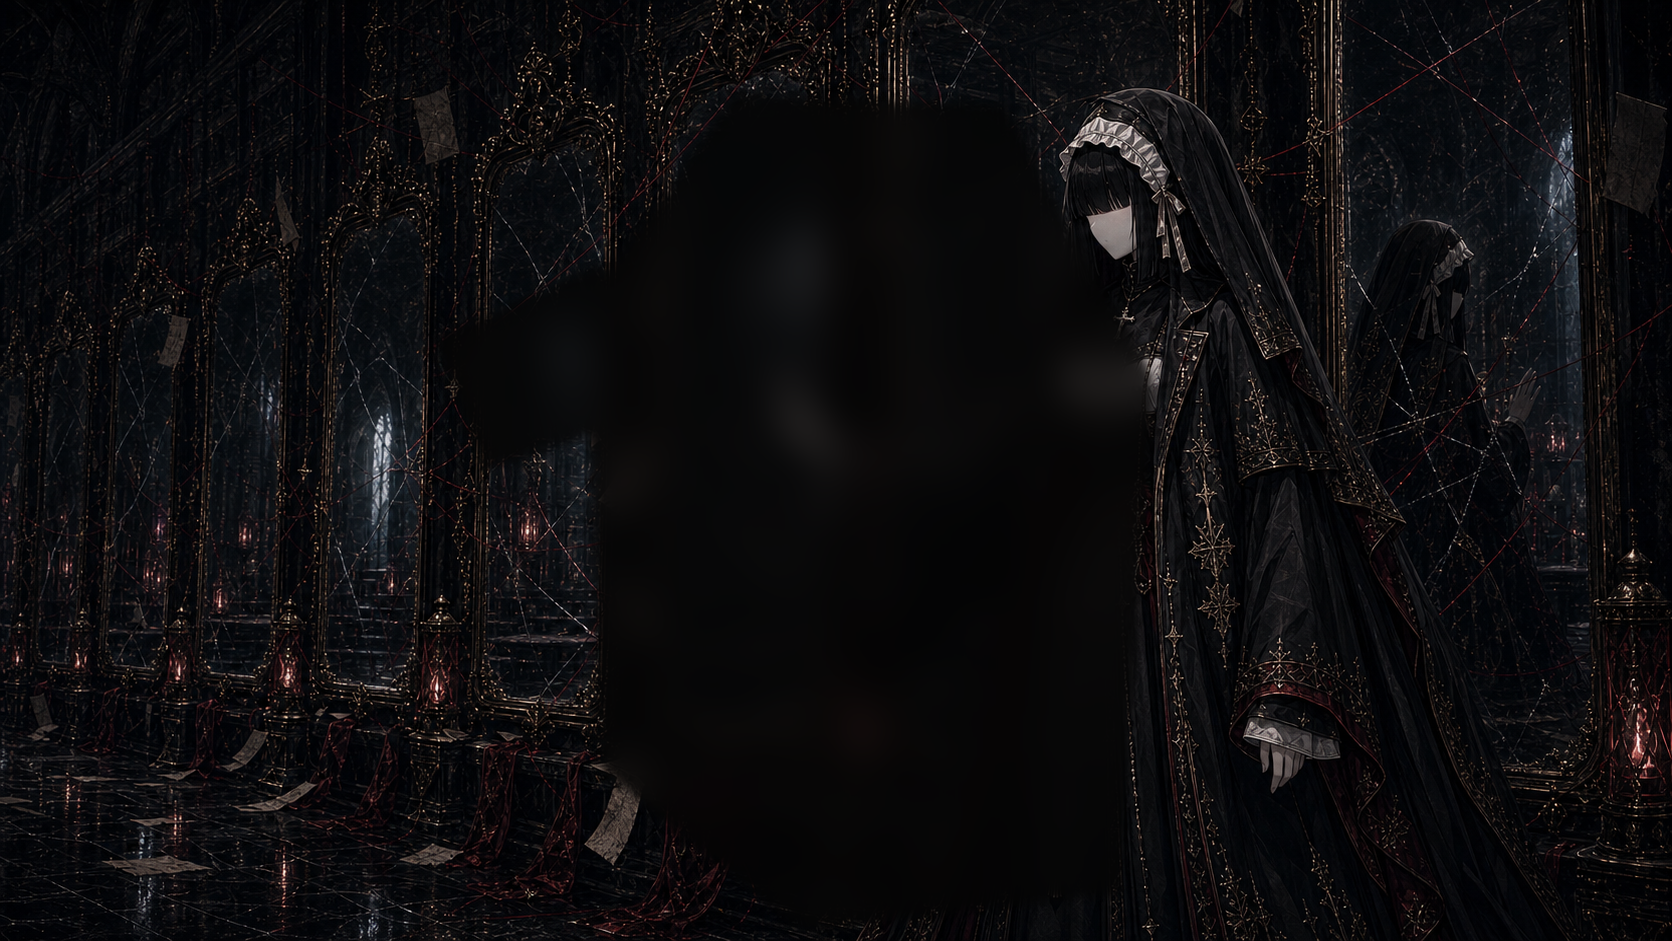
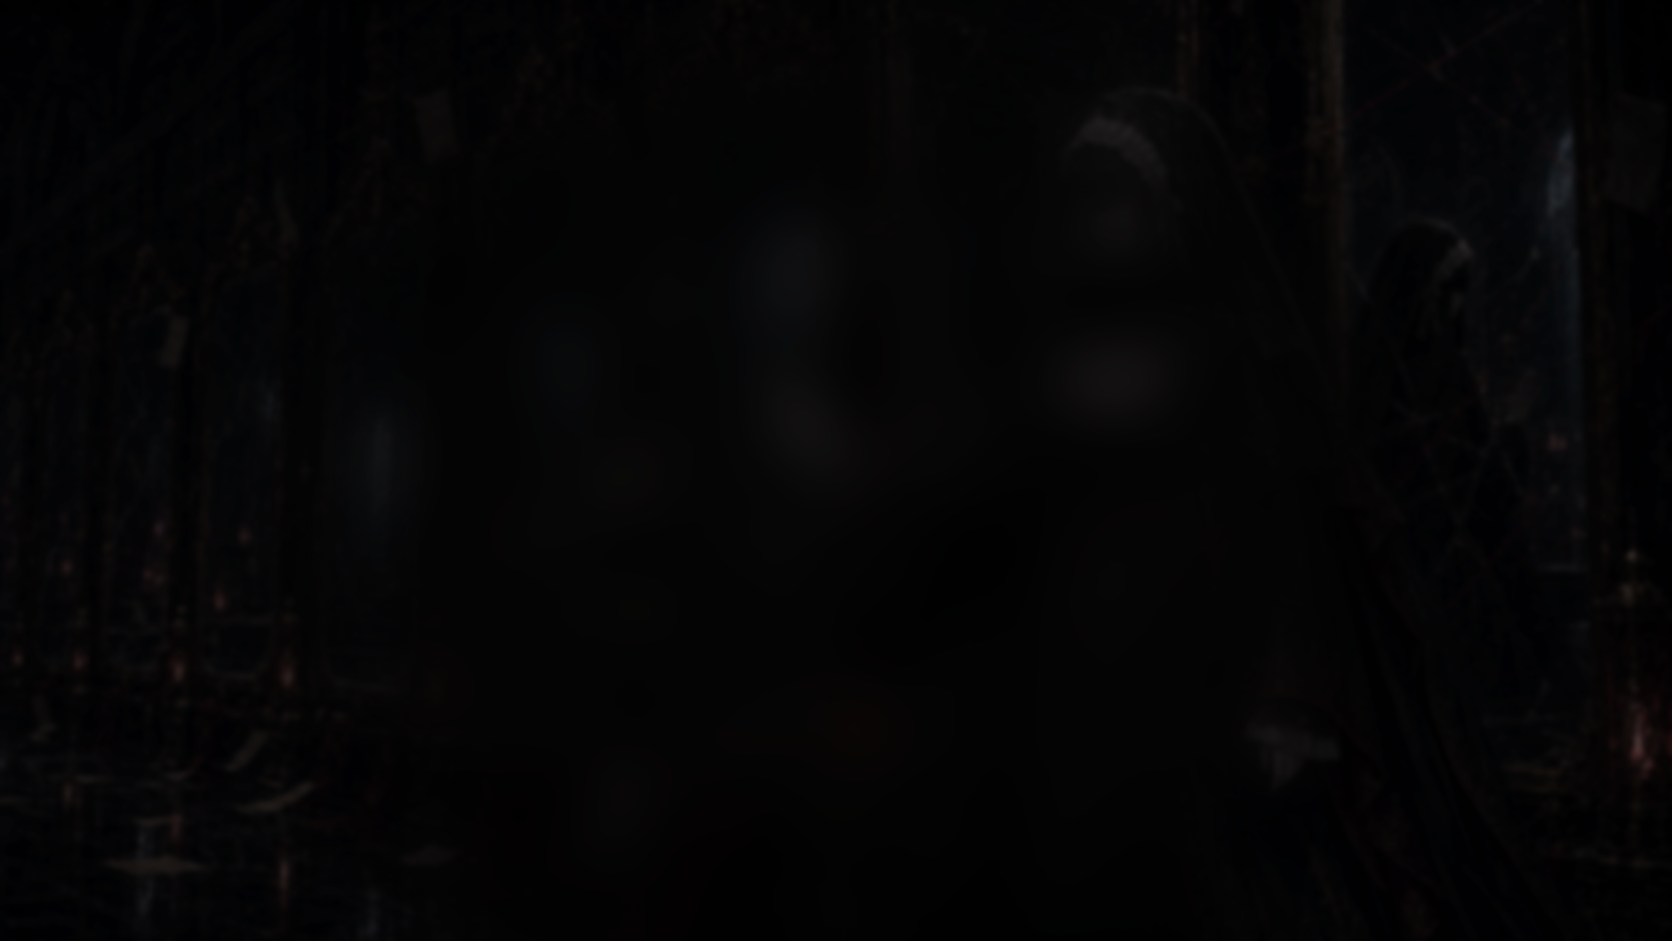
Regenerate Sanctum figure layers

diff --git a/sanctum/index.html b/sanctum/index.html
@@ -361,21 +361,21 @@
     let knitEdges = [];
     let knitDegrees = [];
     const personMasks = [
-      [[[0.42,0.08],[0.57,0.08],[0.64,0.36],[0.67,0.9],[0.54,0.96],[0.45,0.96],[0.32,0.9],[0.35,0.36]]],
-      [[[0.39,0.1],[0.55,0.08],[0.72,0.36],[0.72,0.95],[0.55,0.98],[0.42,0.94],[0.31,0.55]]],
-      [[[0.36,0.02],[0.61,0.05],[0.68,0.35],[0.66,0.67],[0.5,0.82],[0.28,0.95],[0.16,0.82],[0.19,0.48]]],
-      [[[0.39,0.08],[0.58,0.08],[0.68,0.33],[0.74,0.72],[0.62,0.94],[0.38,0.94],[0.24,0.72],[0.31,0.33]]],
-      [[[0.42,0.08],[0.6,0.08],[0.66,0.32],[0.68,0.68],[0.55,0.86],[0.38,0.8],[0.32,0.55],[0.34,0.25]]],
-      [[[0.44,0.15],[0.56,0.15],[0.69,0.45],[0.76,0.9],[0.54,0.98],[0.36,0.94],[0.24,0.64],[0.32,0.36]]],
-      [[[0.36,0.1],[0.52,0.12],[0.63,0.38],[0.62,0.93],[0.42,0.98],[0.27,0.88],[0.24,0.42]]],
-      [[[0.4,0.06],[0.56,0.08],[0.65,0.36],[0.66,0.92],[0.47,0.98],[0.31,0.88],[0.33,0.3]],[[0.26,0.34],[0.34,0.27],[0.37,0.43],[0.28,0.48]]],
-      [[[0.34,0.22],[0.63,0.22],[0.78,0.56],[0.69,0.9],[0.51,0.98],[0.31,0.9],[0.2,0.58]]],
-      [[[0.06,0.07],[0.35,0.08],[0.42,0.38],[0.4,0.83],[0.25,0.96],[0.08,0.88],[0.02,0.45]]],
-      [[[0.43,0.16],[0.57,0.16],[0.7,0.42],[0.76,0.9],[0.56,0.98],[0.42,0.93],[0.28,0.58],[0.36,0.34]]],
-      [[[0.38,0.1],[0.58,0.1],[0.68,0.38],[0.65,0.94],[0.45,0.98],[0.33,0.82],[0.33,0.35]]],
-      [[[0.12,0.08],[0.35,0.06],[0.44,0.34],[0.42,0.86],[0.26,0.98],[0.1,0.88],[0.04,0.48]]],
-      [[[0.44,0.1],[0.6,0.11],[0.69,0.4],[0.67,0.95],[0.48,0.99],[0.36,0.82],[0.35,0.32]],[[0.26,0.36],[0.36,0.28],[0.39,0.44],[0.29,0.5]]],
-      [[[0.42,0.1],[0.58,0.1],[0.73,0.42],[0.75,0.93],[0.55,0.98],[0.39,0.94],[0.25,0.48],[0.33,0.26]]]
+      [[[0.43,0.07],[0.57,0.07],[0.61,0.38],[0.58,0.88],[0.53,0.96],[0.46,0.96],[0.40,0.88],[0.38,0.38]],[[0.45,0.17],[0.55,0.17],[0.58,0.88],[0.42,0.88]],[[0.45,0.28],[0.55,0.28],[0.56,0.39],[0.44,0.39]]],
+      [[[0.42,0.09],[0.55,0.08],[0.64,0.35],[0.67,0.9],[0.54,0.97],[0.43,0.93],[0.34,0.56]],[[0.45,0.2],[0.55,0.2],[0.6,0.9],[0.42,0.9]],[[0.55,0.34],[0.68,0.42],[0.66,0.52],[0.55,0.45]]],
+      [[[0.36,0.04],[0.60,0.05],[0.65,0.32],[0.61,0.58],[0.48,0.74],[0.28,0.91],[0.18,0.78],[0.21,0.48]],[[0.43,0.22],[0.59,0.24],[0.62,0.57],[0.50,0.72],[0.36,0.60]],[[0.50,0.56],[0.66,0.56],[0.65,0.66],[0.50,0.68]]],
+      [[[0.39,0.09],[0.58,0.09],[0.66,0.34],[0.70,0.72],[0.61,0.93],[0.39,0.93],[0.29,0.72],[0.33,0.34]],[[0.43,0.18],[0.55,0.18],[0.60,0.88],[0.40,0.88]],[[0.25,0.34],[0.38,0.42],[0.35,0.57],[0.25,0.52]],[[0.60,0.42],[0.73,0.34],[0.72,0.52],[0.63,0.57]]],
+      [[[0.42,0.08],[0.59,0.08],[0.64,0.32],[0.62,0.62],[0.55,0.82],[0.40,0.77],[0.34,0.55],[0.35,0.26]],[[0.45,0.22],[0.58,0.22],[0.59,0.58],[0.45,0.58]],[[0.58,0.55],[0.66,0.56],[0.66,0.66],[0.55,0.66]]],
+      [[[0.45,0.16],[0.55,0.16],[0.67,0.45],[0.72,0.88],[0.54,0.97],[0.37,0.92],[0.28,0.64],[0.34,0.36]],[[0.46,0.24],[0.54,0.24],[0.58,0.82],[0.43,0.82]]],
+      [[[0.37,0.11],[0.52,0.12],[0.60,0.38],[0.58,0.9],[0.43,0.96],[0.30,0.86],[0.27,0.42]],[[0.39,0.21],[0.51,0.21],[0.53,0.84],[0.36,0.84]]],
+      [[[0.41,0.07],[0.56,0.08],[0.62,0.36],[0.62,0.9],[0.48,0.97],[0.34,0.86],[0.35,0.30]],[[0.26,0.34],[0.36,0.28],[0.38,0.44],[0.29,0.49]],[[0.43,0.20],[0.55,0.20],[0.57,0.84],[0.40,0.84]]],
+      [[[0.35,0.22],[0.62,0.22],[0.72,0.55],[0.66,0.86],[0.51,0.96],[0.33,0.88],[0.23,0.58]],[[0.41,0.30],[0.56,0.30],[0.60,0.76],[0.39,0.76]],[[0.34,0.72],[0.49,0.78],[0.45,0.91],[0.30,0.86]],[[0.52,0.78],[0.67,0.72],[0.70,0.86],[0.55,0.91]]],
+      [[[0.10,0.08],[0.34,0.08],[0.39,0.37],[0.36,0.80],[0.25,0.94],[0.10,0.86],[0.05,0.45]],[[0.18,0.20],[0.34,0.20],[0.35,0.72],[0.16,0.72]],[[0.30,0.34],[0.43,0.42],[0.41,0.55],[0.31,0.50]]],
+      [[[0.44,0.17],[0.56,0.17],[0.66,0.43],[0.71,0.88],[0.55,0.97],[0.43,0.92],[0.32,0.58],[0.38,0.34]],[[0.45,0.27],[0.55,0.27],[0.59,0.84],[0.41,0.84]],[[0.57,0.36],[0.70,0.26],[0.73,0.42],[0.61,0.48]]],
+      [[[0.39,0.11],[0.58,0.11],[0.65,0.38],[0.62,0.90],[0.46,0.97],[0.35,0.80],[0.35,0.36]],[[0.43,0.23],[0.56,0.23],[0.57,0.82],[0.39,0.82]],[[0.41,0.62],[0.60,0.62],[0.63,0.78],[0.38,0.78]]],
+      [[[0.13,0.08],[0.34,0.07],[0.40,0.34],[0.38,0.82],[0.26,0.96],[0.11,0.86],[0.06,0.48]],[[0.18,0.19],[0.34,0.19],[0.35,0.72],[0.16,0.72]],[[0.30,0.50],[0.42,0.58],[0.40,0.70],[0.28,0.62]]],
+      [[[0.45,0.11],[0.60,0.12],[0.65,0.40],[0.63,0.92],[0.49,0.98],[0.38,0.80],[0.37,0.32]],[[0.27,0.36],[0.37,0.28],[0.39,0.44],[0.30,0.50]],[[0.46,0.23],[0.58,0.23],[0.58,0.78],[0.42,0.78]]],
+      [[[0.43,0.11],[0.58,0.11],[0.69,0.42],[0.71,0.90],[0.55,0.97],[0.40,0.92],[0.29,0.49],[0.35,0.27]],[[0.46,0.22],[0.57,0.22],[0.60,0.84],[0.42,0.84]],[[0.34,0.43],[0.45,0.52],[0.42,0.68],[0.31,0.60]],[[0.58,0.52],[0.70,0.43],[0.73,0.60],[0.62,0.68]]]
     ];
 
     setTrack.innerHTML = layers.map((_, index) => `<button class="${index === 0 ? "is-active" : ""}" type="button" aria-label="Show set ${index + 1}"></button>`).join("");
@@ -513,8 +513,6 @@
       const knitFade = 1 - smoothstep(0.86, 1, progress);
 
       drawFourthWall(layers[activeIndex], layers[index], wallProgress, progress, index);
-      veilPersonCutout(progress, index);
-
       drawKnitMesh(knitProgress, knitFade, figureLayers[index], index);
 
       const flash = smoothstep(0.82, 1, progress);
@@ -721,18 +719,6 @@
       ctx.restore();
     }
 
-    function veilPersonCutout(progress, index) {
-      const width = window.innerWidth;
-      const height = window.innerHeight;
-      const veil = 1 - smoothstep(0.74, 0.98, progress);
-
-      ctx.save();
-      ctx.globalAlpha = 0.38 * veil;
-      ctx.fillStyle = "rgba(6, 5, 5, 0.92)";
-      ctx.fill(personPath(width, height, index));
-      ctx.restore();
-    }
-
     function drawKnitMesh(progress, fade, image, index) {
       const width = window.innerWidth;
       const height = window.innerHeight;
@@ -745,12 +731,11 @@
 
       ctx.save();
       ctx.globalAlpha = fade;
-      ctx.fillStyle = "rgba(242, 240, 235, 0.07)";
-      ctx.fill(personPath(width, height, index));
+      ctx.fillStyle = "rgba(242, 240, 235, 0.035)";
+      ctx.fillRect(0, 0, width, height);
       ctx.restore();
 
       ctx.save();
-      ctx.clip(personPath(width, height, index));
       ctx.globalAlpha = fade * smoothstep(0.12, 0.92, progress) * 0.74;
       ctx.filter = `brightness(${0.3 + progress * 0.76}) saturate(${0.78 + progress * 0.2}) contrast(1.08)`;
       drawCoverImage(image, 0, 0, width, height);
@@ -760,7 +745,6 @@
       ctx.restore();
 
       ctx.save();
-      ctx.clip(personPath(width, height, index));
       ctx.lineCap = "round";
       ctx.lineJoin = "round";
 
@@ -784,7 +768,6 @@
       ctx.restore();
 
       ctx.save();
-      ctx.clip(personPath(width, height, index));
       ctx.globalAlpha = fade * smoothstep(0.7, 1, progress) * 0.58;
       for (let i = 0; i < visibleCount; i += 1) {
         const point = knitPoints[i];
@@ -794,15 +777,6 @@
         ctx.arc(point.x, point.y, 1.05, 0, Math.PI * 2);
         ctx.fill();
       }
-      ctx.restore();
-
-      ctx.save();
-      ctx.globalAlpha = fade * smoothstep(0.36, 1, progress) * 0.74;
-      ctx.strokeStyle = "rgba(242, 240, 235, 0.72)";
-      ctx.lineWidth = 1.05;
-      ctx.shadowColor = "rgba(242, 240, 235, 0.2)";
-      ctx.shadowBlur = 16;
-      strokeDashedPath(personPath(width, height, index), smoothstep(0.32, 1, progress), scale);
       ctx.restore();
 
     }
@@ -818,7 +792,7 @@
         attempts += 1;
         const nx = seeded(index, attempts, 1, 0);
         const ny = seeded(index, attempts, 2, 0);
-        if (!insidePersonMask(index, nx, ny)) continue;
+        if (!insideFigureAlpha(image, nx, ny)) continue;
 
         const tone = sampleSetKnitTone(image, nx, ny, width, height);
         const shapeBrightness = syntheticKnitBrightness(nx, ny);
@@ -889,7 +863,7 @@
           const distance = Math.hypot(knitPoints[i].x - knitPoints[j].x, knitPoints[i].y - knitPoints[j].y);
           if (distance > maxDistance) continue;
           const mid = fromKnitScreen((knitPoints[i].x + knitPoints[j].x) / 2, (knitPoints[i].y + knitPoints[j].y) / 2, width, height);
-          if (!insidePersonMask(index, mid.nx, mid.ny)) continue;
+          if (!insideFigureAlpha(figureLayers[index], mid.nx, mid.ny)) continue;
           candidates.push({ point: knitPoints[j], distance });
         }
 
@@ -976,6 +950,23 @@
       }
       const data = samplerCtx.getImageData(ix, iy, 1, 1).data;
       return { r: data[0], g: data[1], b: data[2] };
+    }
+
+    function insideFigureAlpha(image, nx, ny) {
+      if (!image || !image.complete || !image.naturalWidth || !image.naturalHeight) return false;
+      const sampler = insideFigureAlpha.canvas || (insideFigureAlpha.canvas = document.createElement("canvas"));
+      const samplerCtx = insideFigureAlpha.ctx || (insideFigureAlpha.ctx = sampler.getContext("2d", { willReadFrequently: true }));
+      const key = `${image.currentSrc || image.src}:${image.naturalWidth}x${image.naturalHeight}`;
+      if (insideFigureAlpha.key !== key) {
+        sampler.width = image.naturalWidth;
+        sampler.height = image.naturalHeight;
+        samplerCtx.clearRect(0, 0, sampler.width, sampler.height);
+        samplerCtx.drawImage(image, 0, 0);
+        insideFigureAlpha.key = key;
+      }
+      const x = Math.max(0, Math.min(image.naturalWidth - 1, Math.floor(nx * image.naturalWidth)));
+      const y = Math.max(0, Math.min(image.naturalHeight - 1, Math.floor(ny * image.naturalHeight)));
+      return samplerCtx.getImageData(x, y, 1, 1).data[3] > 36;
     }
 
     function mixThreadColor(a, b) {
